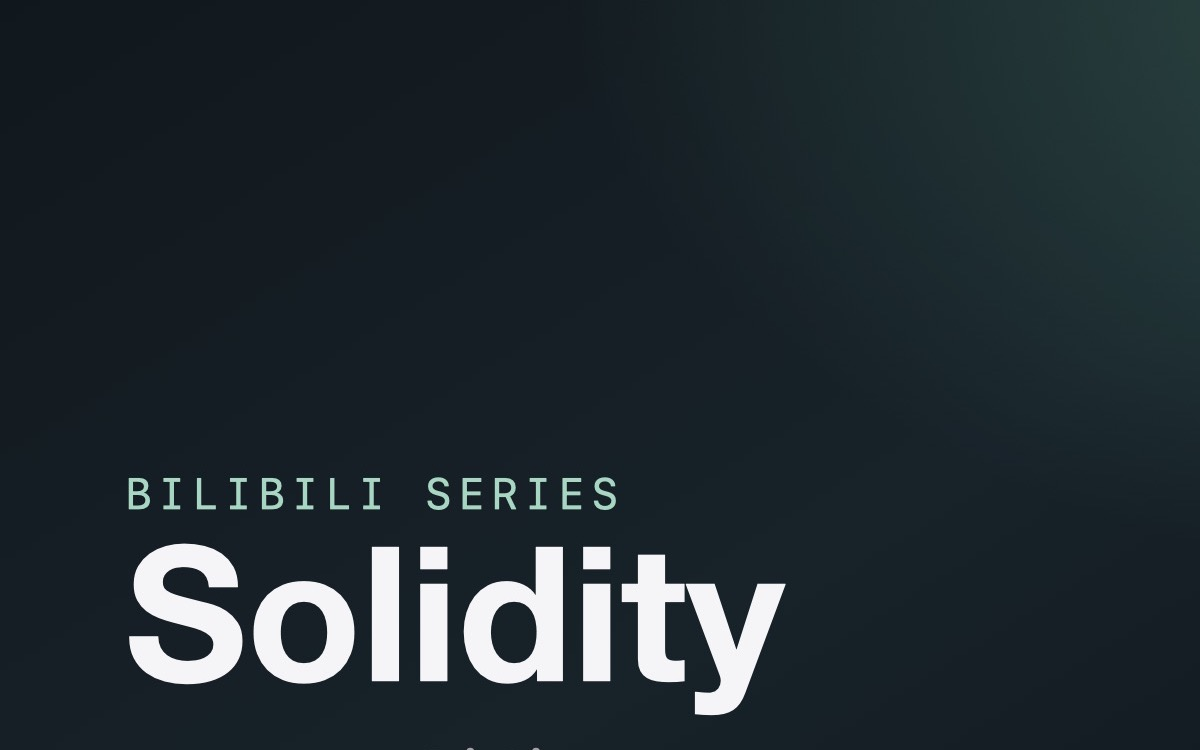
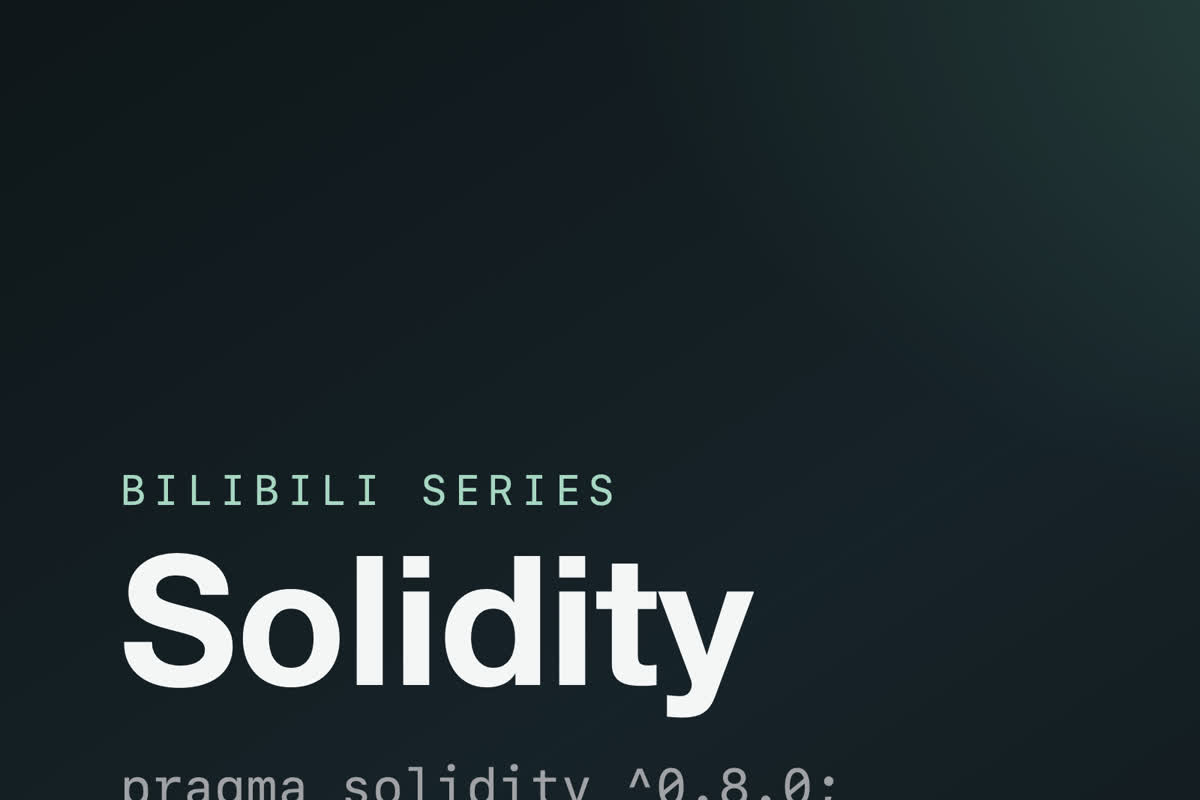
Fix Solidity cover so the full card content is visible.
Use an absolutely positioned CSS cover with proper padding instead of a cropped image.

Changed region(s): [[0.0925, 0.5827, 0.6783, 1.0], [0.0925, 0.9507, 0.4933, 1.0]]

diff --git a/docs/portfolio/styles.css b/docs/portfolio/styles.css
@@ -1166,13 +1166,15 @@ html[lang="zh-CN"] .hero-headline {
 }
 
 .project-cover {
+    position: absolute;
+    inset: 0;
     width: 100%;
     height: 100%;
     display: flex;
     flex-direction: column;
     justify-content: flex-end;
-    gap: 0.75rem;
-    padding: clamp(1.5rem, 4vw, 2.5rem);
+    gap: 0.85rem;
+    padding: clamp(1.5rem, 4vw, 2.75rem);
     box-sizing: border-box;
 }
 
@@ -1184,24 +1186,36 @@ html[lang="zh-CN"] .hero-headline {
 
 .project-cover__kicker {
     font-family: var(--font-mono);
-    font-size: 0.75rem;
+    font-size: clamp(0.7rem, 1.6vw, 0.8rem);
     letter-spacing: 0.12em;
     text-transform: uppercase;
-    color: rgba(167, 214, 194, 0.85);
+    color: rgba(167, 214, 194, 0.9);
 }
 
 .project-cover__title {
-    font-size: clamp(2.5rem, 6vw, 4rem);
+    font-size: clamp(2.4rem, 6vw, 4rem);
     font-weight: 700;
     letter-spacing: -0.04em;
-    line-height: 1;
-    color: var(--color-text);
+    line-height: 1.05;
+    color: #f5f5f7;
 }
 
 .project-cover__code {
     font-family: var(--font-mono);
-    font-size: clamp(0.9rem, 2vw, 1.1rem);
-    color: var(--color-text-secondary);
+    font-size: clamp(0.85rem, 2vw, 1.15rem);
+    line-height: 1.35;
+    color: #a1a1a6;
+    word-break: break-word;
+}
+
+.project-block--media--solidity {
+    background: #10161a;
+}
+
+.project-block--media--solidity .project-image {
+    object-fit: contain;
+    object-position: center;
+    background: #10161a;
 }
 
 .project-block--media.is-tilting {
@@ -1282,6 +1296,16 @@ html[lang="zh-CN"] .hero-headline {
     object-fit: contain;
     display: block;
     border-radius: inherit;
+}
+
+.project-block--media--solidity {
+    background: #10161a;
+}
+
+.project-block--media--solidity .project-image {
+    object-fit: contain;
+    object-position: center;
+    background: #10161a;
 }
 
 .project-block--media > picture {

diff --git a/docs/portfolio/index.html b/docs/portfolio/index.html
@@ -167,11 +167,12 @@
                     <p class="project-body" data-i18n="projects.solidity.body">从语言基础到真正能上手写的合约；在 B 站教编程，让更多人走进 Web3。</p>
                     <a href="https://space.bilibili.com/411591950/lists/3269107?type=series" class="project-link" target="_blank" rel="noopener noreferrer" aria-label="在 B 站观看 Solidity 教程" data-i18n="projects.solidity.link">B 站观看 &gt;</a>
                 </div>
-                <div class="project-block project-block--media">
-                    <picture>
-                        <source type="image/webp" srcset="/portfolio/img/Solidity.webp">
-                        <img src="/portfolio/img/Solidity.jpg" alt="Solidity 教程封面" class="project-image" width="1200" height="750" loading="lazy" decoding="async">
-                    </picture>
+                <div class="project-block project-block--media project-block--media--solidity">
+                    <div class="project-cover project-cover--solidity" aria-hidden="true">
+                        <span class="project-cover__kicker">Bilibili Series</span>
+                        <span class="project-cover__title">Solidity</span>
+                        <code class="project-cover__code">pragma solidity ^0.8.0;</code>
+                    </div>
                 </div>
             </div>
         </article>
